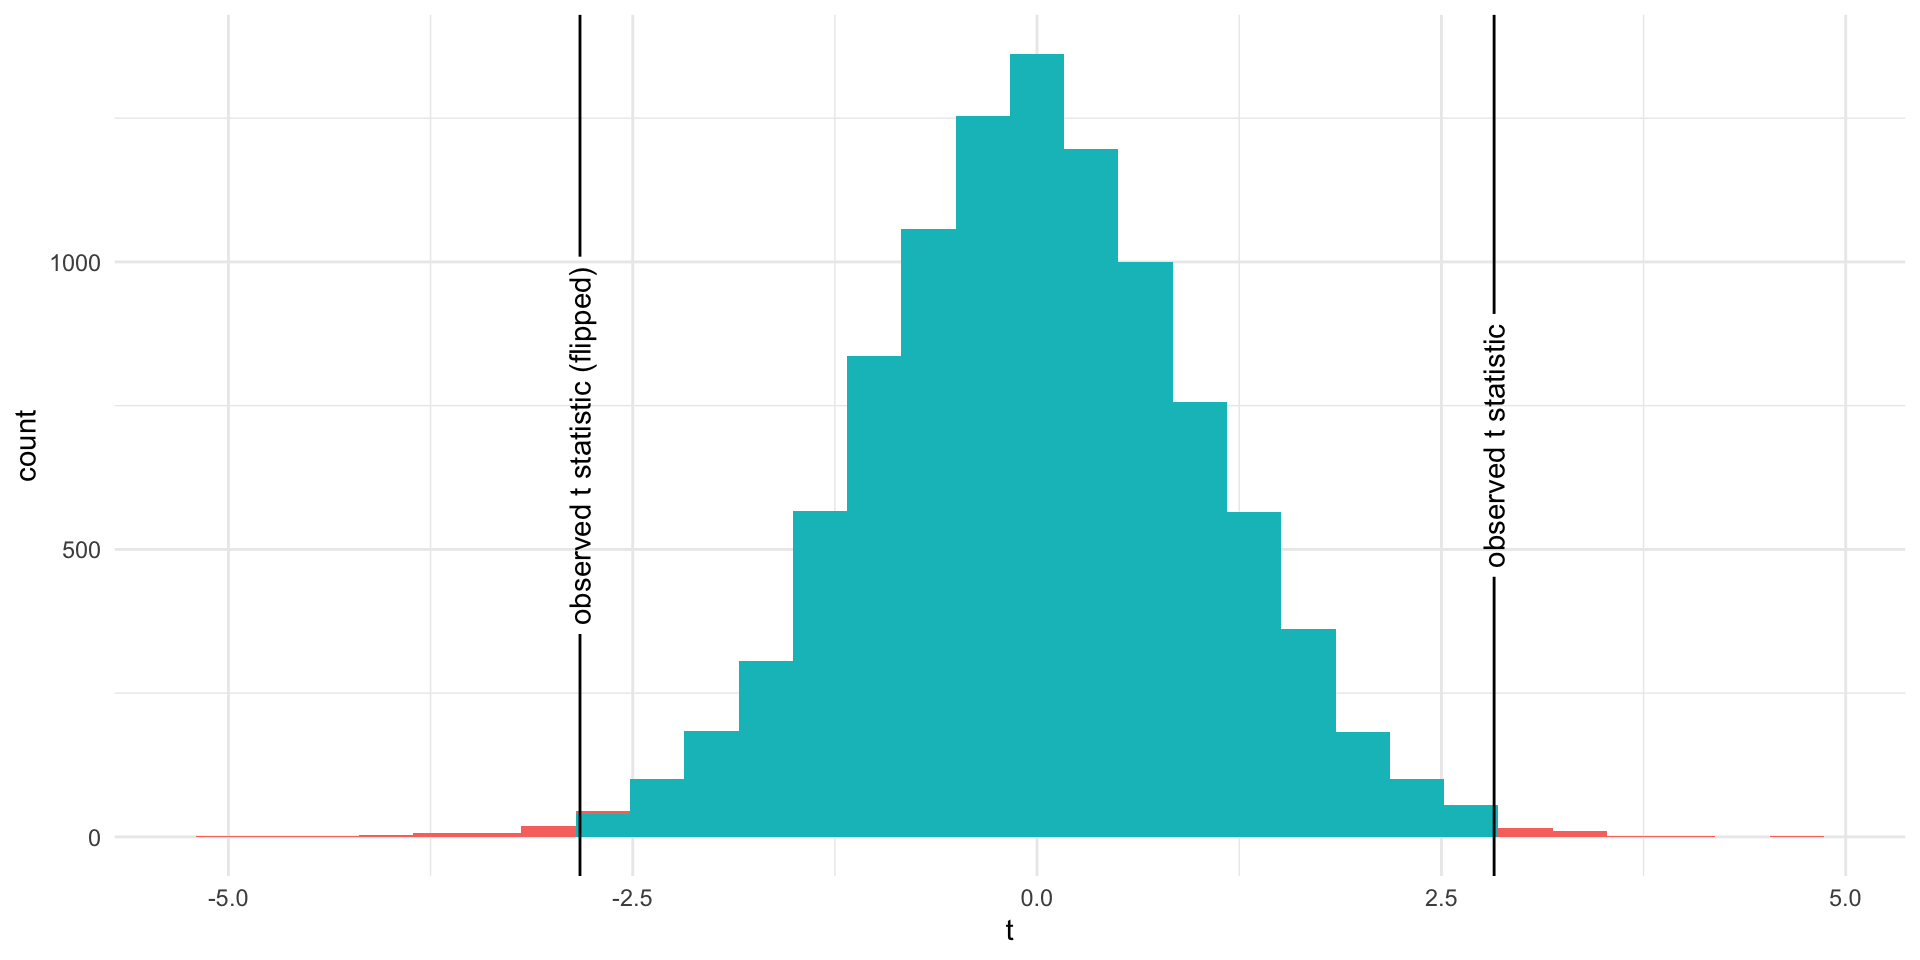
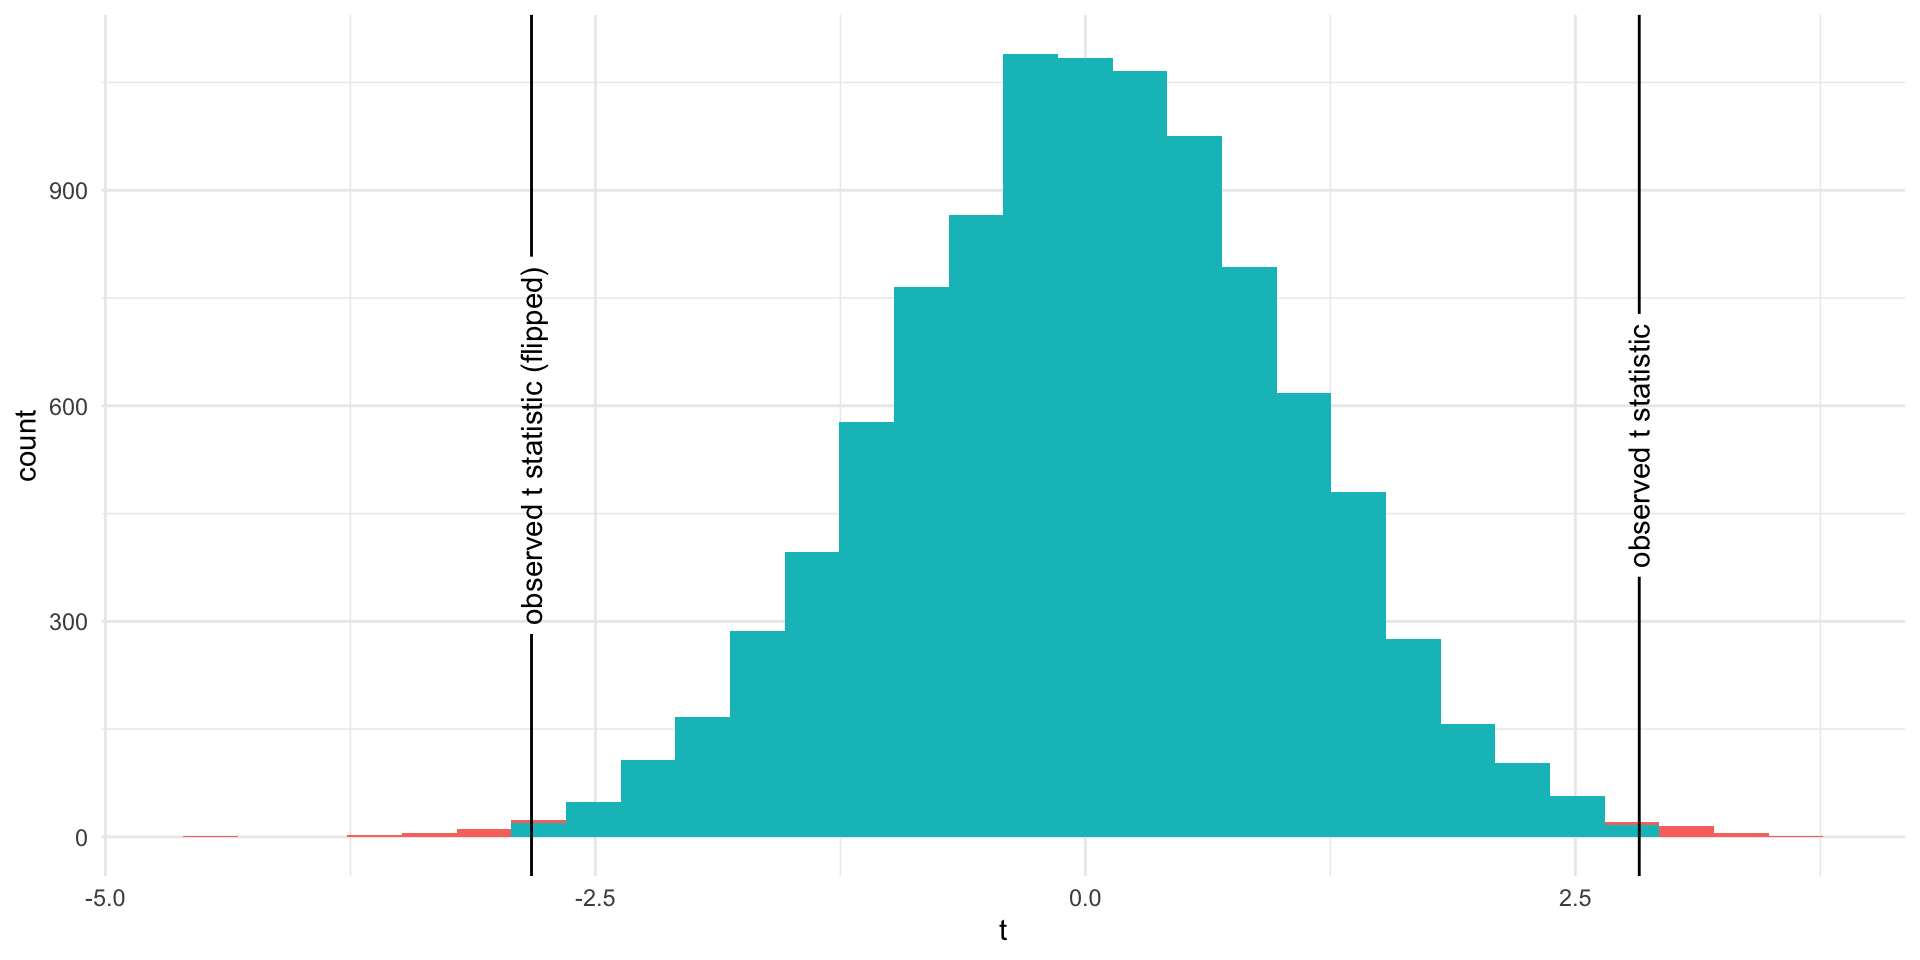
add modl

diff --git a/11-hypothesis-testing.html b/11-hypothesis-testing.html
@@ -418,7 +418,7 @@
 <details>
 <summary>Code</summary>
 <div class="sourceCode cell-code" id="cb2"><pre class="sourceCode numberSource r number-lines code-with-copy"><code class="sourceCode r"><span id="cb2-1"><a href="#cb2-1"></a>null <span class="ot">&lt;-</span> <span class="fu">tibble</span>(</span>
-<span id="cb2-2"><a href="#cb2-2"></a>  <span class="at">t =</span> <span class="fu">rt</span>(<span class="dv">10000</span>, <span class="at">df =</span> <span class="dv">28</span>)</span>
+<span id="cb2-2"><a href="#cb2-2"></a>  <span class="at">t =</span> <span class="fu">rt</span>(<span class="dv">10000</span>, <span class="at">df =</span> <span class="dv">100</span>)</span>
 <span id="cb2-3"><a href="#cb2-3"></a>)</span>
 <span id="cb2-4"><a href="#cb2-4"></a></span>
 <span id="cb2-5"><a href="#cb2-5"></a><span class="fu">ggplot</span>(null, <span class="fu">aes</span>(t)) <span class="sc">+</span></span>
@@ -513,9 +513,9 @@ F-statistic: 7.988 on 1 and 98 DF,  p-value: 0.005707</code></pre>
 
 </div>
 <img data-src="11-hypothesis-testing_files/figure-revealjs/unnamed-chunk-14-1.png" width="960" class="r-stretch"><div class="cell">
-<div class="sourceCode cell-code" id="cb8"><pre class="sourceCode numberSource r number-lines code-with-copy"><code class="sourceCode r"><span id="cb8-1"><a href="#cb8-1"></a><span class="fu">pt</span>(<span class="fl">2.826</span>, <span class="at">df =</span> <span class="dv">28</span>, <span class="at">lower.tail =</span> <span class="cn">FALSE</span>)</span></code><button title="Copy to Clipboard" class="code-copy-button"><i class="bi"></i></button></pre></div>
+<div class="sourceCode cell-code" id="cb8"><pre class="sourceCode numberSource r number-lines code-with-copy"><code class="sourceCode r"><span id="cb8-1"><a href="#cb8-1"></a><span class="fu">pt</span>(<span class="fl">2.826</span>, <span class="at">df =</span> <span class="dv">98</span>, <span class="at">lower.tail =</span> <span class="cn">FALSE</span>)</span></code><button title="Copy to Clipboard" class="code-copy-button"><i class="bi"></i></button></pre></div>
 <div class="cell-output cell-output-stdout">
-<pre><code>[1] 0.004299145</code></pre>
+<pre><code>[1] 0.002856431</code></pre>
 </div>
 </div>
 </section>
@@ -535,9 +535,9 @@ F-statistic: 7.988 on 1 and 98 DF,  p-value: 0.005707</code></pre>
 
 </div>
 <img data-src="11-hypothesis-testing_files/figure-revealjs/unnamed-chunk-18-1.png" width="960" class="r-stretch"><div class="cell">
-<div class="sourceCode cell-code" id="cb11"><pre class="sourceCode numberSource r number-lines code-with-copy"><code class="sourceCode r"><span id="cb11-1"><a href="#cb11-1"></a><span class="fu">pt</span>(<span class="sc">-</span><span class="fl">2.826</span>, <span class="at">df =</span> <span class="dv">28</span>)</span></code><button title="Copy to Clipboard" class="code-copy-button"><i class="bi"></i></button></pre></div>
+<div class="sourceCode cell-code" id="cb11"><pre class="sourceCode numberSource r number-lines code-with-copy"><code class="sourceCode r"><span id="cb11-1"><a href="#cb11-1"></a><span class="fu">pt</span>(<span class="sc">-</span><span class="fl">2.826</span>, <span class="at">df =</span> <span class="dv">98</span>)</span></code><button title="Copy to Clipboard" class="code-copy-button"><i class="bi"></i></button></pre></div>
 <div class="cell-output cell-output-stdout">
-<pre><code>[1] 0.004299145</code></pre>
+<pre><code>[1] 0.002856431</code></pre>
 </div>
 </div>
 </section>
@@ -557,9 +557,9 @@ F-statistic: 7.988 on 1 and 98 DF,  p-value: 0.005707</code></pre>
 
 </div>
 <img data-src="11-hypothesis-testing_files/figure-revealjs/unnamed-chunk-22-1.png" width="960" class="r-stretch"><div class="cell">
-<div class="sourceCode cell-code" id="cb14"><pre class="sourceCode numberSource r number-lines code-with-copy"><code class="sourceCode r"><span id="cb14-1"><a href="#cb14-1"></a><span class="fu">pt</span>(<span class="fl">2.826</span>, <span class="at">df =</span> <span class="dv">28</span>, <span class="at">lower.tail =</span> <span class="cn">FALSE</span>) <span class="sc">+</span> <span class="fu">pt</span>(<span class="sc">-</span><span class="fl">2.826</span>, <span class="at">df =</span> <span class="dv">28</span>)</span></code><button title="Copy to Clipboard" class="code-copy-button"><i class="bi"></i></button></pre></div>
+<div class="sourceCode cell-code" id="cb14"><pre class="sourceCode numberSource r number-lines code-with-copy"><code class="sourceCode r"><span id="cb14-1"><a href="#cb14-1"></a><span class="fu">pt</span>(<span class="fl">2.826</span>, <span class="at">df =</span> <span class="dv">98</span>, <span class="at">lower.tail =</span> <span class="cn">FALSE</span>) <span class="sc">+</span> <span class="fu">pt</span>(<span class="sc">-</span><span class="fl">2.826</span>, <span class="at">df =</span> <span class="dv">98</span>)</span></code><button title="Copy to Clipboard" class="code-copy-button"><i class="bi"></i></button></pre></div>
 <div class="cell-output cell-output-stdout">
-<pre><code>[1] 0.00859829</code></pre>
+<pre><code>[1] 0.005712862</code></pre>
 </div>
 </div>
 </section>
@@ -581,9 +581,9 @@ F-statistic: 7.988 on 1 and 98 DF,  p-value: 0.005707</code></pre>
 </div>
 </div>
 <div class="cell">
-<div class="sourceCode cell-code" id="cb17"><pre class="sourceCode numberSource r number-lines code-with-copy"><code class="sourceCode r"><span id="cb17-1"><a href="#cb17-1"></a><span class="fu">pt</span>(<span class="fl">2.826</span>, <span class="at">df =</span> <span class="dv">28</span>, <span class="at">lower.tail =</span> <span class="cn">FALSE</span>) <span class="sc">*</span> <span class="dv">2</span></span></code><button title="Copy to Clipboard" class="code-copy-button"><i class="bi"></i></button></pre></div>
+<div class="sourceCode cell-code" id="cb17"><pre class="sourceCode numberSource r number-lines code-with-copy"><code class="sourceCode r"><span id="cb17-1"><a href="#cb17-1"></a><span class="fu">pt</span>(<span class="fl">2.826</span>, <span class="at">df =</span> <span class="dv">98</span>, <span class="at">lower.tail =</span> <span class="cn">FALSE</span>) <span class="sc">*</span> <span class="dv">2</span></span></code><button title="Copy to Clipboard" class="code-copy-button"><i class="bi"></i></button></pre></div>
 <div class="cell-output cell-output-stdout">
-<pre><code>[1] 0.00859829</code></pre>
+<pre><code>[1] 0.005712862</code></pre>
 </div>
 </div>
 <p><img src="img/favicon.png" class="slide-logo"></p>
